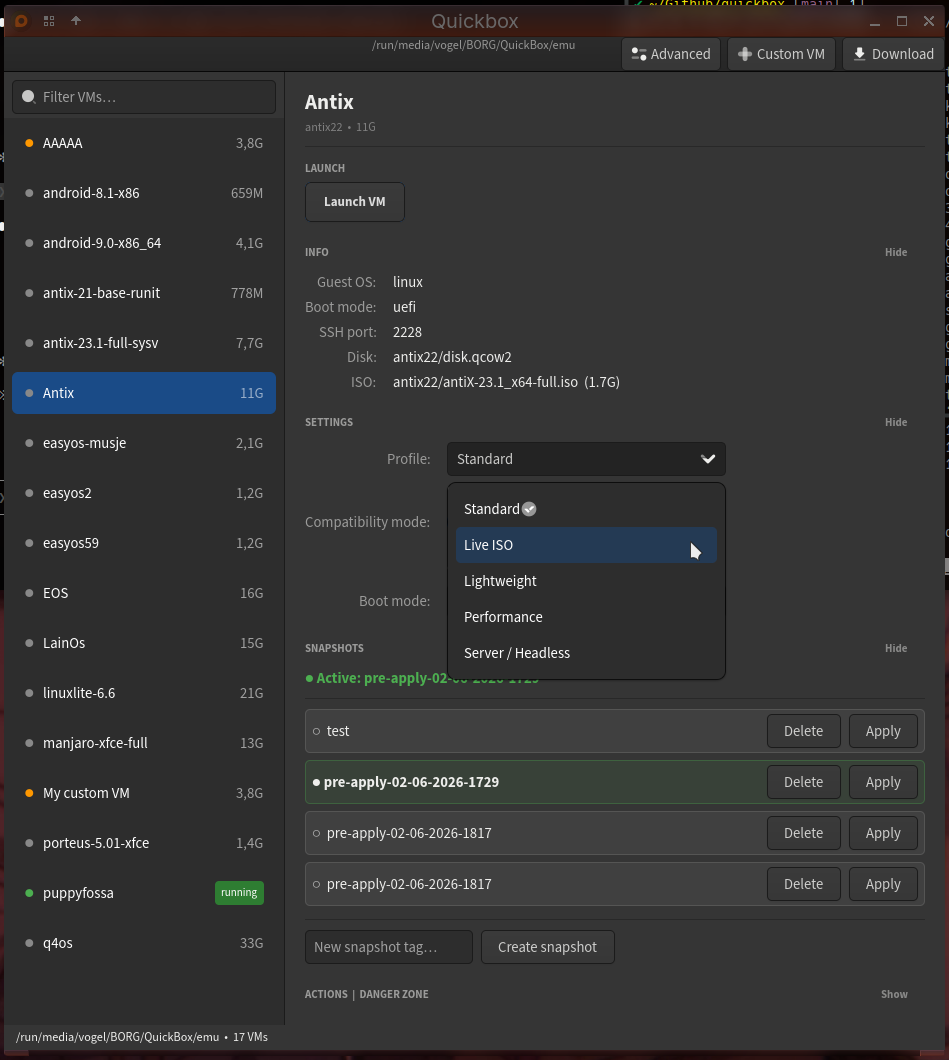
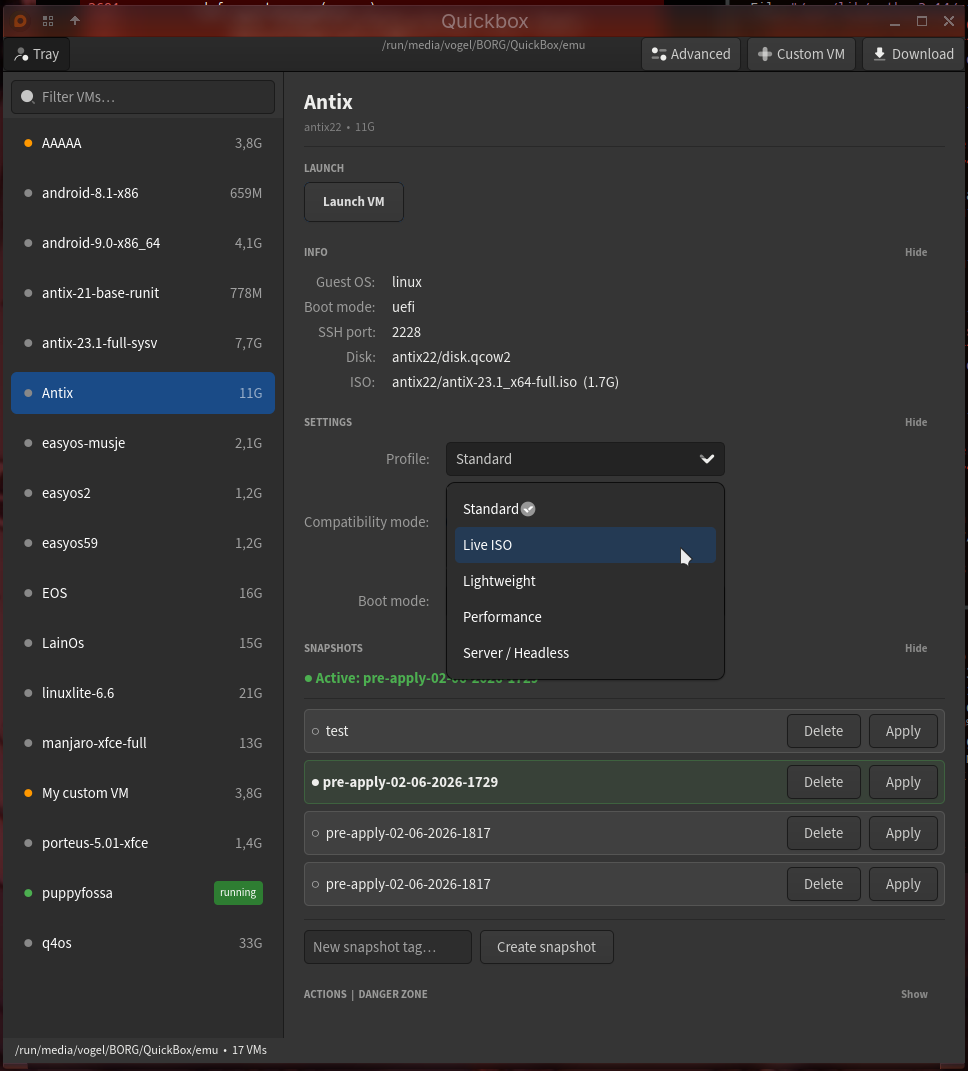
replace images

diff --git a/README.md b/README.md
@@ -4,6 +4,8 @@ A GTK4 GUI for managing QEMU virtual machines via [quickemu](https://github.com/
 
 ![quickbox](images/running.png)
 
+![quickbox](images/advanced.png)
+
 ## Features
 
 - **VM list** — browse all VMs with running status, disk size, filter by name